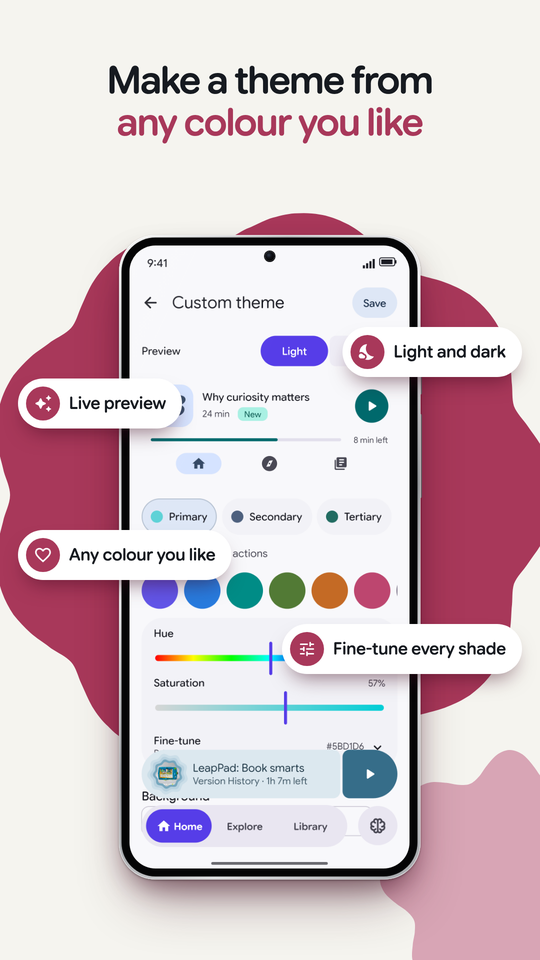
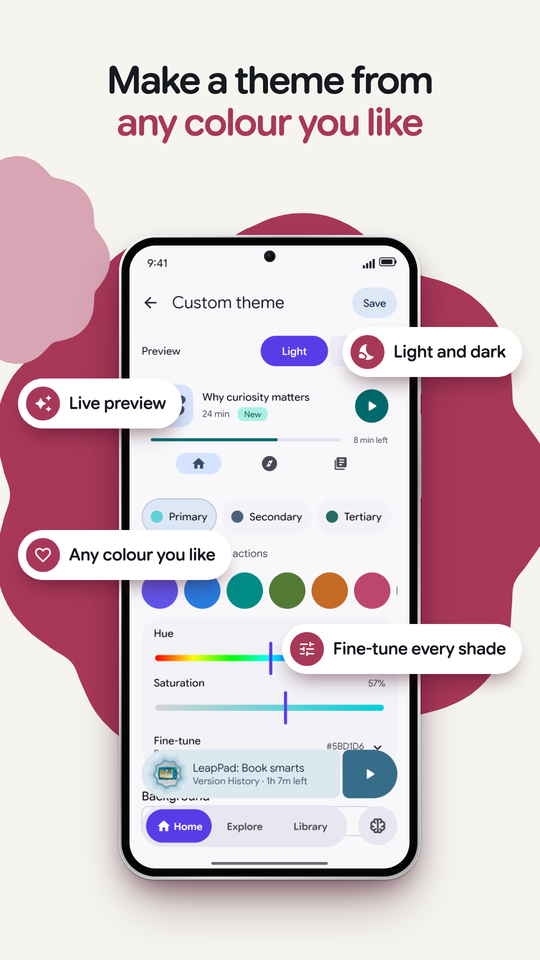
docs: vary the accent shape across README screenshots

Changed region(s): [[0.7111, 0.7812, 1.0, 1.0], [0.0, 0.1562, 0.2074, 0.4062]]

diff --git a/README.md b/README.md
@@ -204,9 +204,9 @@ Then it stays quiet while you listen. Free, with no app ads and no paywalls.
 - **The boxlore brief.** An optional daily news episode, with sources.
 
 <p align="center">
-<img src="docs/images/brand/screens/lore.png?v=5e0ce722" width="30%" alt="Lore: a question card about Krakatoa that leads to an episode, with Play and Add to queue"/>&nbsp;
-<img src="docs/images/brand/screens/explore.png?v=915419b3" width="30%" alt="Explore: search by idea, picks for you, ideas for the time of day and top shows by region"/>&nbsp;
-<img src="docs/images/brand/screens/welcome.png?v=bac80a1c" width="30%" alt="Welcome: meet Echo, answer a few questions and get shows picked for you, or import your library"/>
+<img src="docs/images/brand/screens/lore.png?v=8af50774" width="30%" alt="Lore: a question card about Krakatoa that leads to an episode, with Play and Add to queue"/>&nbsp;
+<img src="docs/images/brand/screens/explore.png?v=f8e223e6" width="30%" alt="Explore: search by idea, picks for you, ideas for the time of day and top shows by region"/>&nbsp;
+<img src="docs/images/brand/screens/welcome.png?v=7414e7b8" width="30%" alt="Welcome: meet Echo, answer a few questions and get shows picked for you, or import your library"/>
 </p>
 
 <br/>
@@ -221,9 +221,9 @@ Then it stays quiet while you listen. Free, with no app ads and no paywalls.
 - **Ready before you go offline.** Smart Downloads get new episodes onto your phone.
 
 <p align="center">
-<img src="docs/images/brand/screens/home.png?v=a46e40e1" width="30%" alt="boxlore Home: resume in one tap, with picks for you, Daily mix and Smart Downloads"/>&nbsp;
-<img src="docs/images/brand/screens/player.png?v=9893830f" width="30%" alt="The boxlore player in the show’s colours, with 0.5× to 3× speed, a sleep timer, chapters, transcripts and Google Cast"/>&nbsp;
-<img src="docs/images/brand/screens/bunpod.png?v=d87514d6" width="30%" alt="The bunpod player: larger titles, time left at a glance and big, easy controls"/>
+<img src="docs/images/brand/screens/home.png?v=8c60a071" width="30%" alt="boxlore Home: resume in one tap, with picks for you, Daily mix and Smart Downloads"/>&nbsp;
+<img src="docs/images/brand/screens/player.png?v=83a9636a" width="30%" alt="The boxlore player in the show’s colours, with 0.5× to 3× speed, a sleep timer, chapters, transcripts and Google Cast"/>&nbsp;
+<img src="docs/images/brand/screens/bunpod.png?v=38759d7a" width="30%" alt="The bunpod player: larger titles, time left at a glance and big, easy controls"/>
 </p>
 
 <br/>
@@ -240,9 +240,9 @@ Then it stays quiet while you listen. Free, with no app ads and no paywalls.
 - **And much, much more.** See [every feature](#every-feature).
 
 <p align="center">
-<img src="docs/images/brand/screens/home_styles.png?v=7c9b1be2" width="30%" alt="Six Home styles: Block, Cover, Tide, Duotone, Halo and Marquee"/>&nbsp;
-<img src="docs/images/brand/screens/themes.png?v=b755cb0c" width="30%" alt="The custom theme editor with a live preview in light and dark and any colour you like"/>&nbsp;
-<img src="docs/images/brand/screens/backup.png?v=2e4cfedf" width="30%" alt="Cloud sync and backups: full library backup, OPML import and export, and sync across your devices"/>
+<img src="docs/images/brand/screens/home_styles.png?v=c6c701c7" width="30%" alt="Six Home styles: Block, Cover, Tide, Duotone, Halo and Marquee"/>&nbsp;
+<img src="docs/images/brand/screens/themes.png?v=290f25fa" width="30%" alt="The custom theme editor with a live preview in light and dark and any colour you like"/>&nbsp;
+<img src="docs/images/brand/screens/backup.png?v=54c018ca" width="30%" alt="Cloud sync and backups: full library backup, OPML import and export, and sync across your devices"/>
 </p>
 
 <br/>
